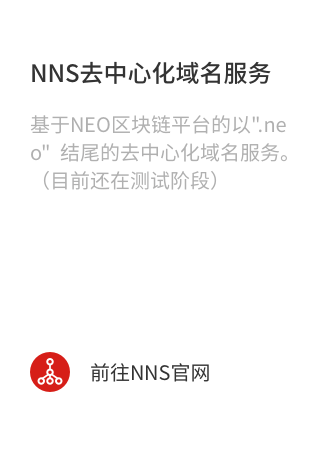
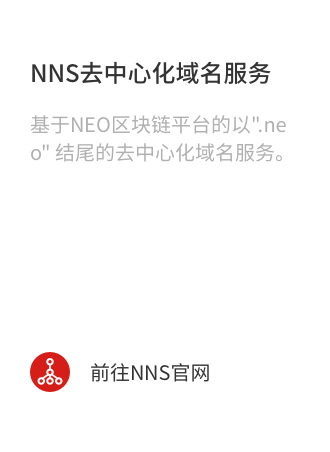
更新

Changed region(s): [[0.1212, 0.3097, 0.8788, 0.4336]]

diff --git a/index-En.html b/index-En.html
@@ -191,7 +191,7 @@
                             <strong>NNS-decentralized domain name service</strong>
                         </div>
                         <div class="project-des">
-                            <span>NNS is a decentralized domain name service ending in ".neo" based on the NEO blockchain platform. (Currently under testing)</span>
+                            <span>NNS is a decentralized domain name service ending in ".neo" based on the NEO blockchain platform.</span>
                         </div>
                         <div class="project-link">
                             <a href="https://neons.name" target="_blank">
@@ -199,10 +199,10 @@
                                 <img src="./img/NNS-yes.png" alt="" class="display-yes">
                                 <span>Go to NNS official website</span>
                             </a>
-                            <a href="https://testwallet.nel.group/#login" target="_blank">
-                                <img src="./img/wallet-no.png" alt="" class="display-no" style="vertical-align: top;">
-                                <img src="./img/wallet-yes.png" alt="" class="display-yes" style="vertical-align: top;">
-                                <span style="display:inline-block;width: 220px;">Go to web wallet to experience NNS (Testnet version)</span>
+                            <a href="https://wallet.nel.group/#/login" target="_blank">
+                                <img src="./img/wallet-no.png" alt="" class="display-no">
+                                <img src="./img/wallet-yes.png" alt="" class="display-yes">
+                                <span>Go to experience NNS </span>
                             </a>
                         </div>
                     </div>

diff --git a/index.html b/index.html
@@ -191,7 +191,7 @@
                             <strong>NNS去中心化域名服务</strong>
                         </div>
                         <div class="project-des">
-                            <span>基于NEO区块链平台的以".neo" 结尾的去中心化域名服务。（目前还在测试阶段）</span>
+                            <span>基于NEO区块链平台的以".neo" 结尾的去中心化域名服务。</span>
                         </div>
                         <div class="project-link">
                             <a href="https://neons.name" target="_blank">
@@ -199,10 +199,10 @@
                                 <img src="./img/NNS-yes.png" alt="" class="display-yes">
                                 <span>前往NNS官网</span>
                             </a>
-                            <a href="https://testwallet.nel.group/#login" target="_blank">
+                            <a href="https://wallet.nel.group/#/login" target="_blank">
                                 <img src="./img/wallet-no.png" alt="" class="display-no">
                                 <img src="./img/wallet-yes.png" alt="" class="display-yes">
-                                <span>前往网页钱包体验NNS（测试链）</span>
+                                <span>前往网页钱包体验NNS</span>
                             </a>
                         </div>
                     </div>
